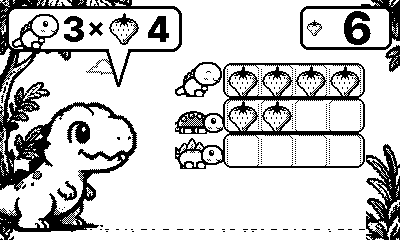
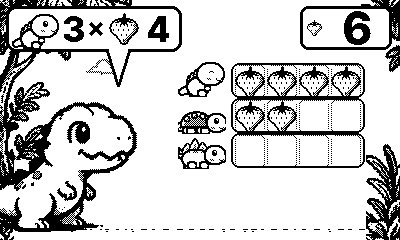
Keep party dinos clear of their row boxes
Multiplying grid cells are 32 px apart (berries are 30), the grid shifts
right, and each dino has a fixed 5 px gap before its row; a test
enforces the gap and that a 5-wide row fits.  Berry inset now derives
from the cell pitch.

Claude-Session: https://claude.ai/code/session_01PSZdM1SDyvnNPt6Ptk92Sc

Changed region(s): [[0.42, 0.2625, 0.9, 0.7]]

diff --git a/DESIGN_REVIEW.md b/DESIGN_REVIEW.md
@@ -30,6 +30,13 @@ Simulator.
 | 11 | Two-digit totals ("10", "25") overflowed the badge. | Badge widened to 92 px. A test checks both badges stay on screen and clear of the bubble. |
 | 12 | Request, prompt and total were in different places in each game. | Same top row in both games: request bubble top-left (tail down to the T-Rex), crank/A prompt in the middle, total badge top-right. A test checks the order. |
 
+### UX pass: dinos vs. row boxes
+
+| # | Finding | Fix |
+|---|---|---|
+| 13 | Party dinos' heads touched or overlapped the left edge of their row box (the sprite ended exactly where the box began), worst while hopping. | Cells are 32 px apart instead of 34 (berries are 30), so the grid could shift right. There's now a fixed 5 px gap between each dino and its row, still close enough to read as "my row". A test enforces the gap and checks that a 5-wide row still fits on screen. |
+| 14 | The berry inset inside a cell was hard-coded. | Derived from the cell pitch, so the grid can be retuned in one place. |
+
 ### Still open
 
 - **Big T-Rex vs. grid in Multiplying:** the host takes the left 40% of
